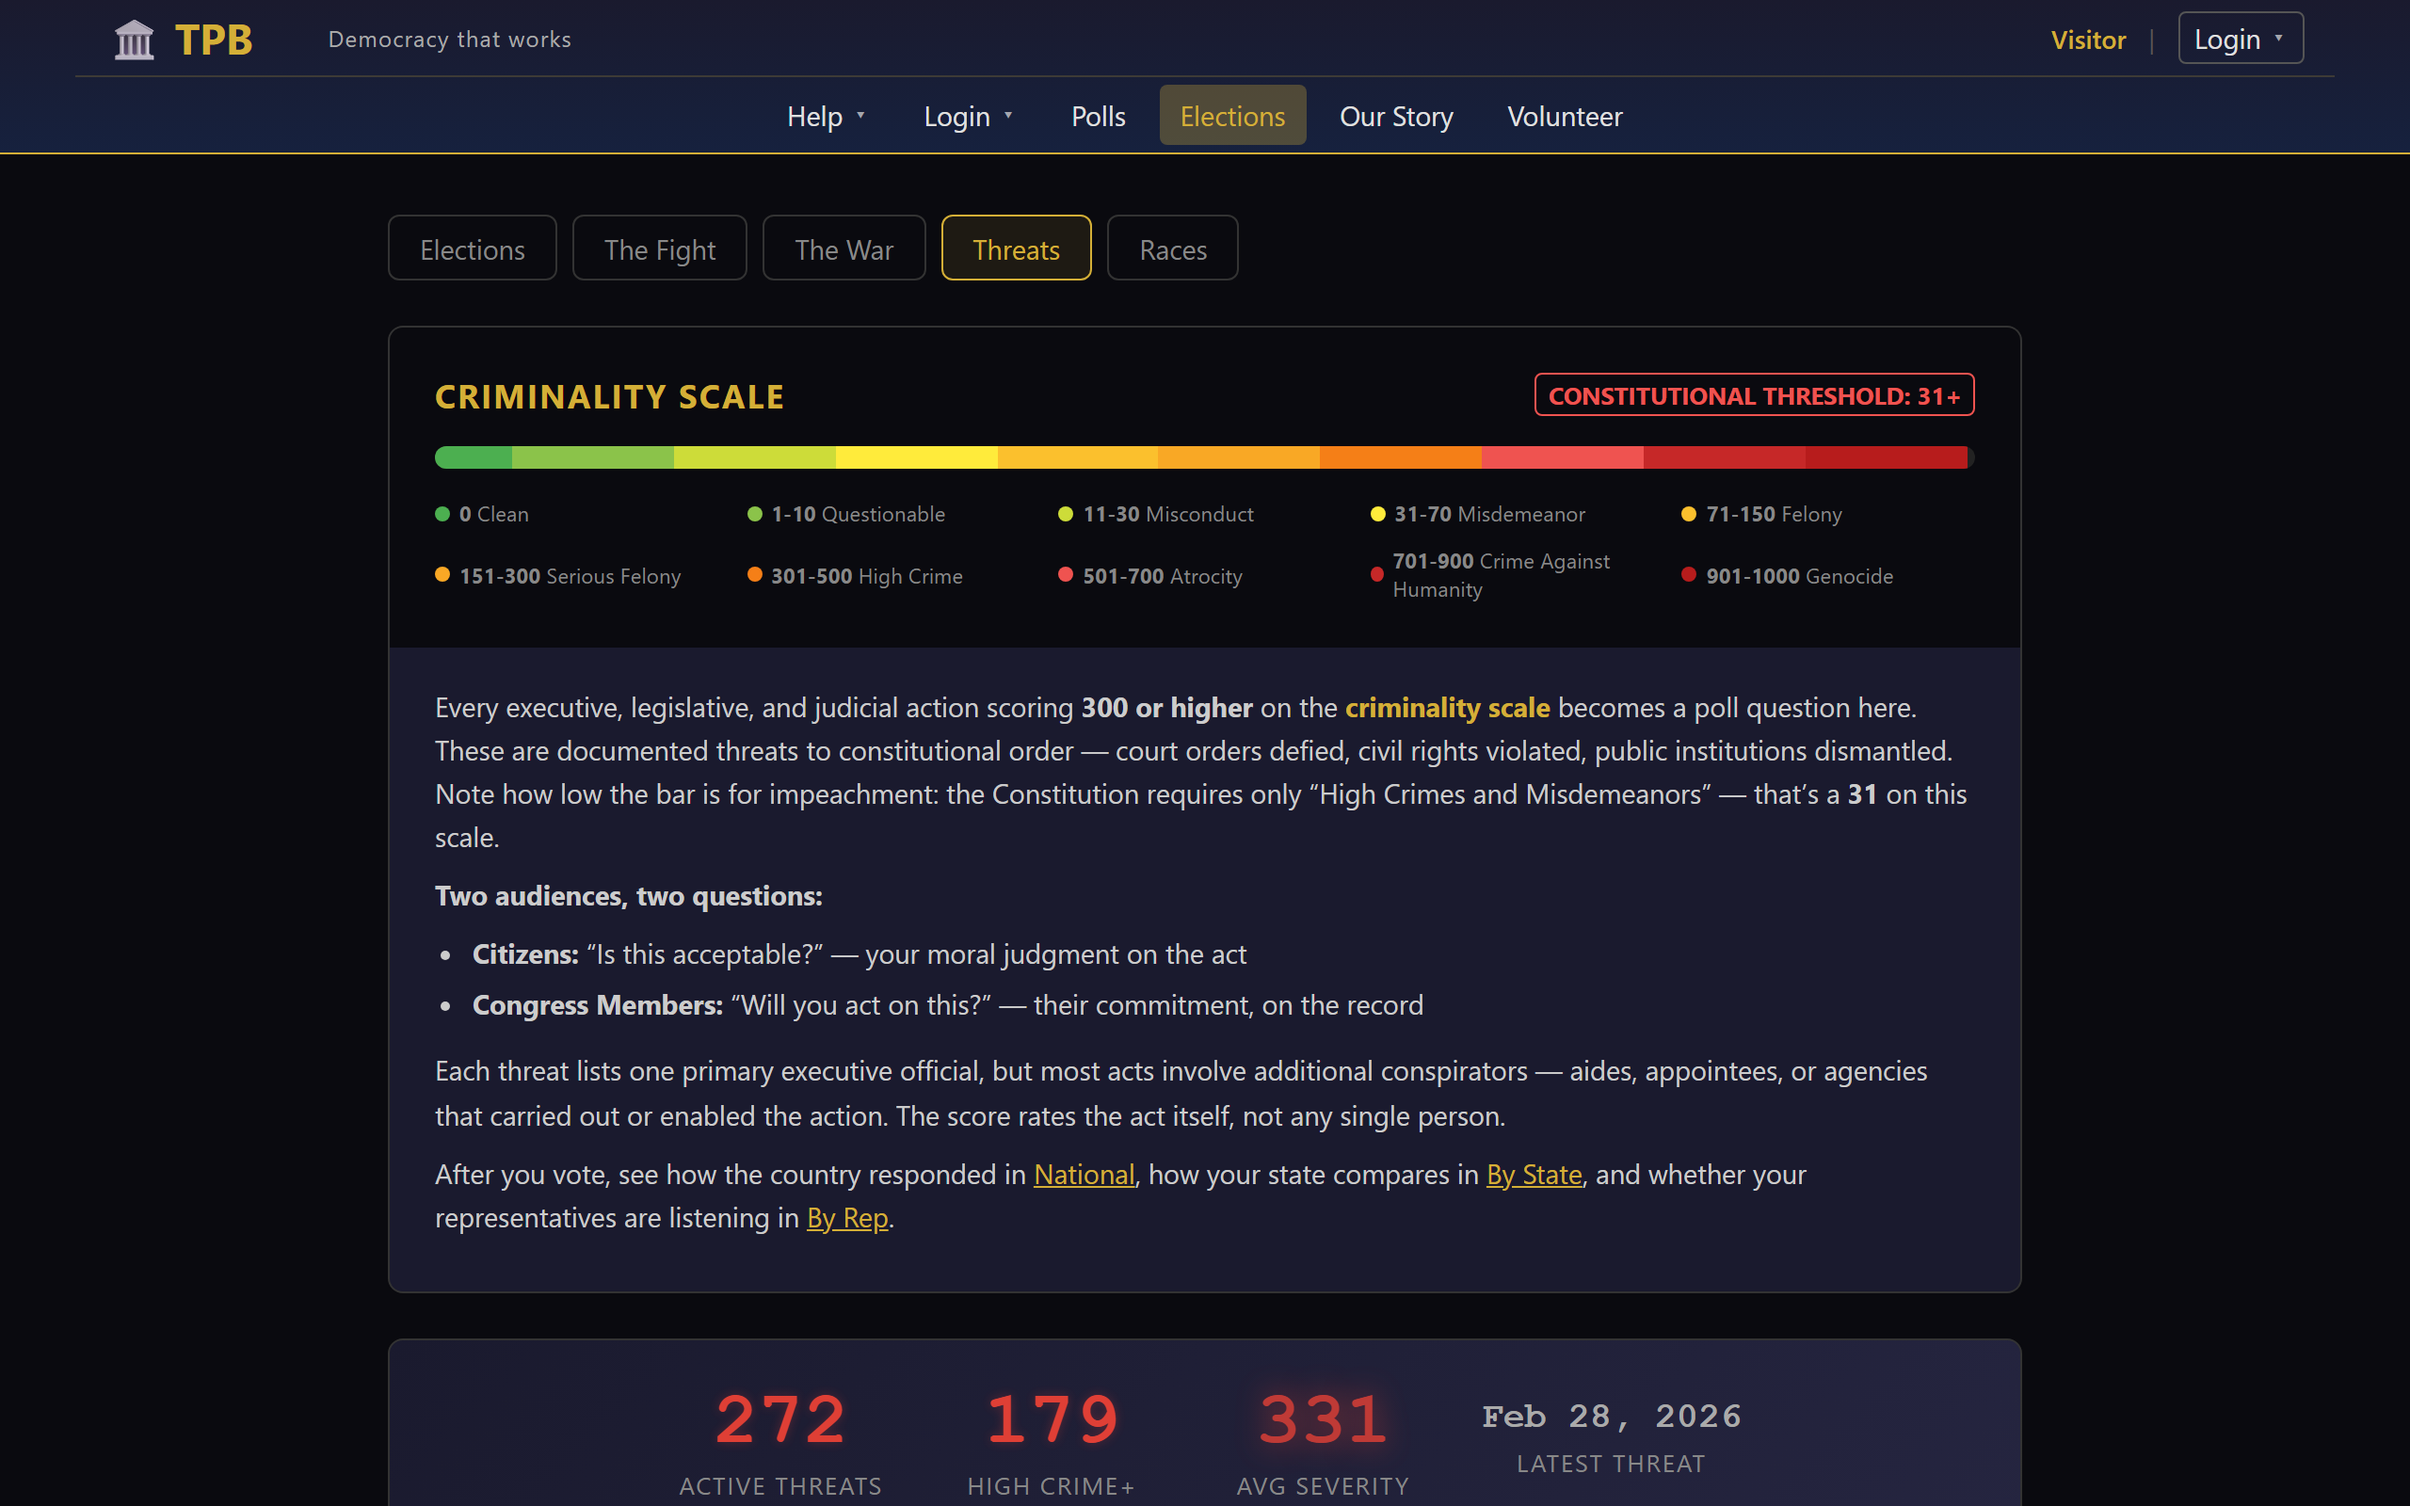
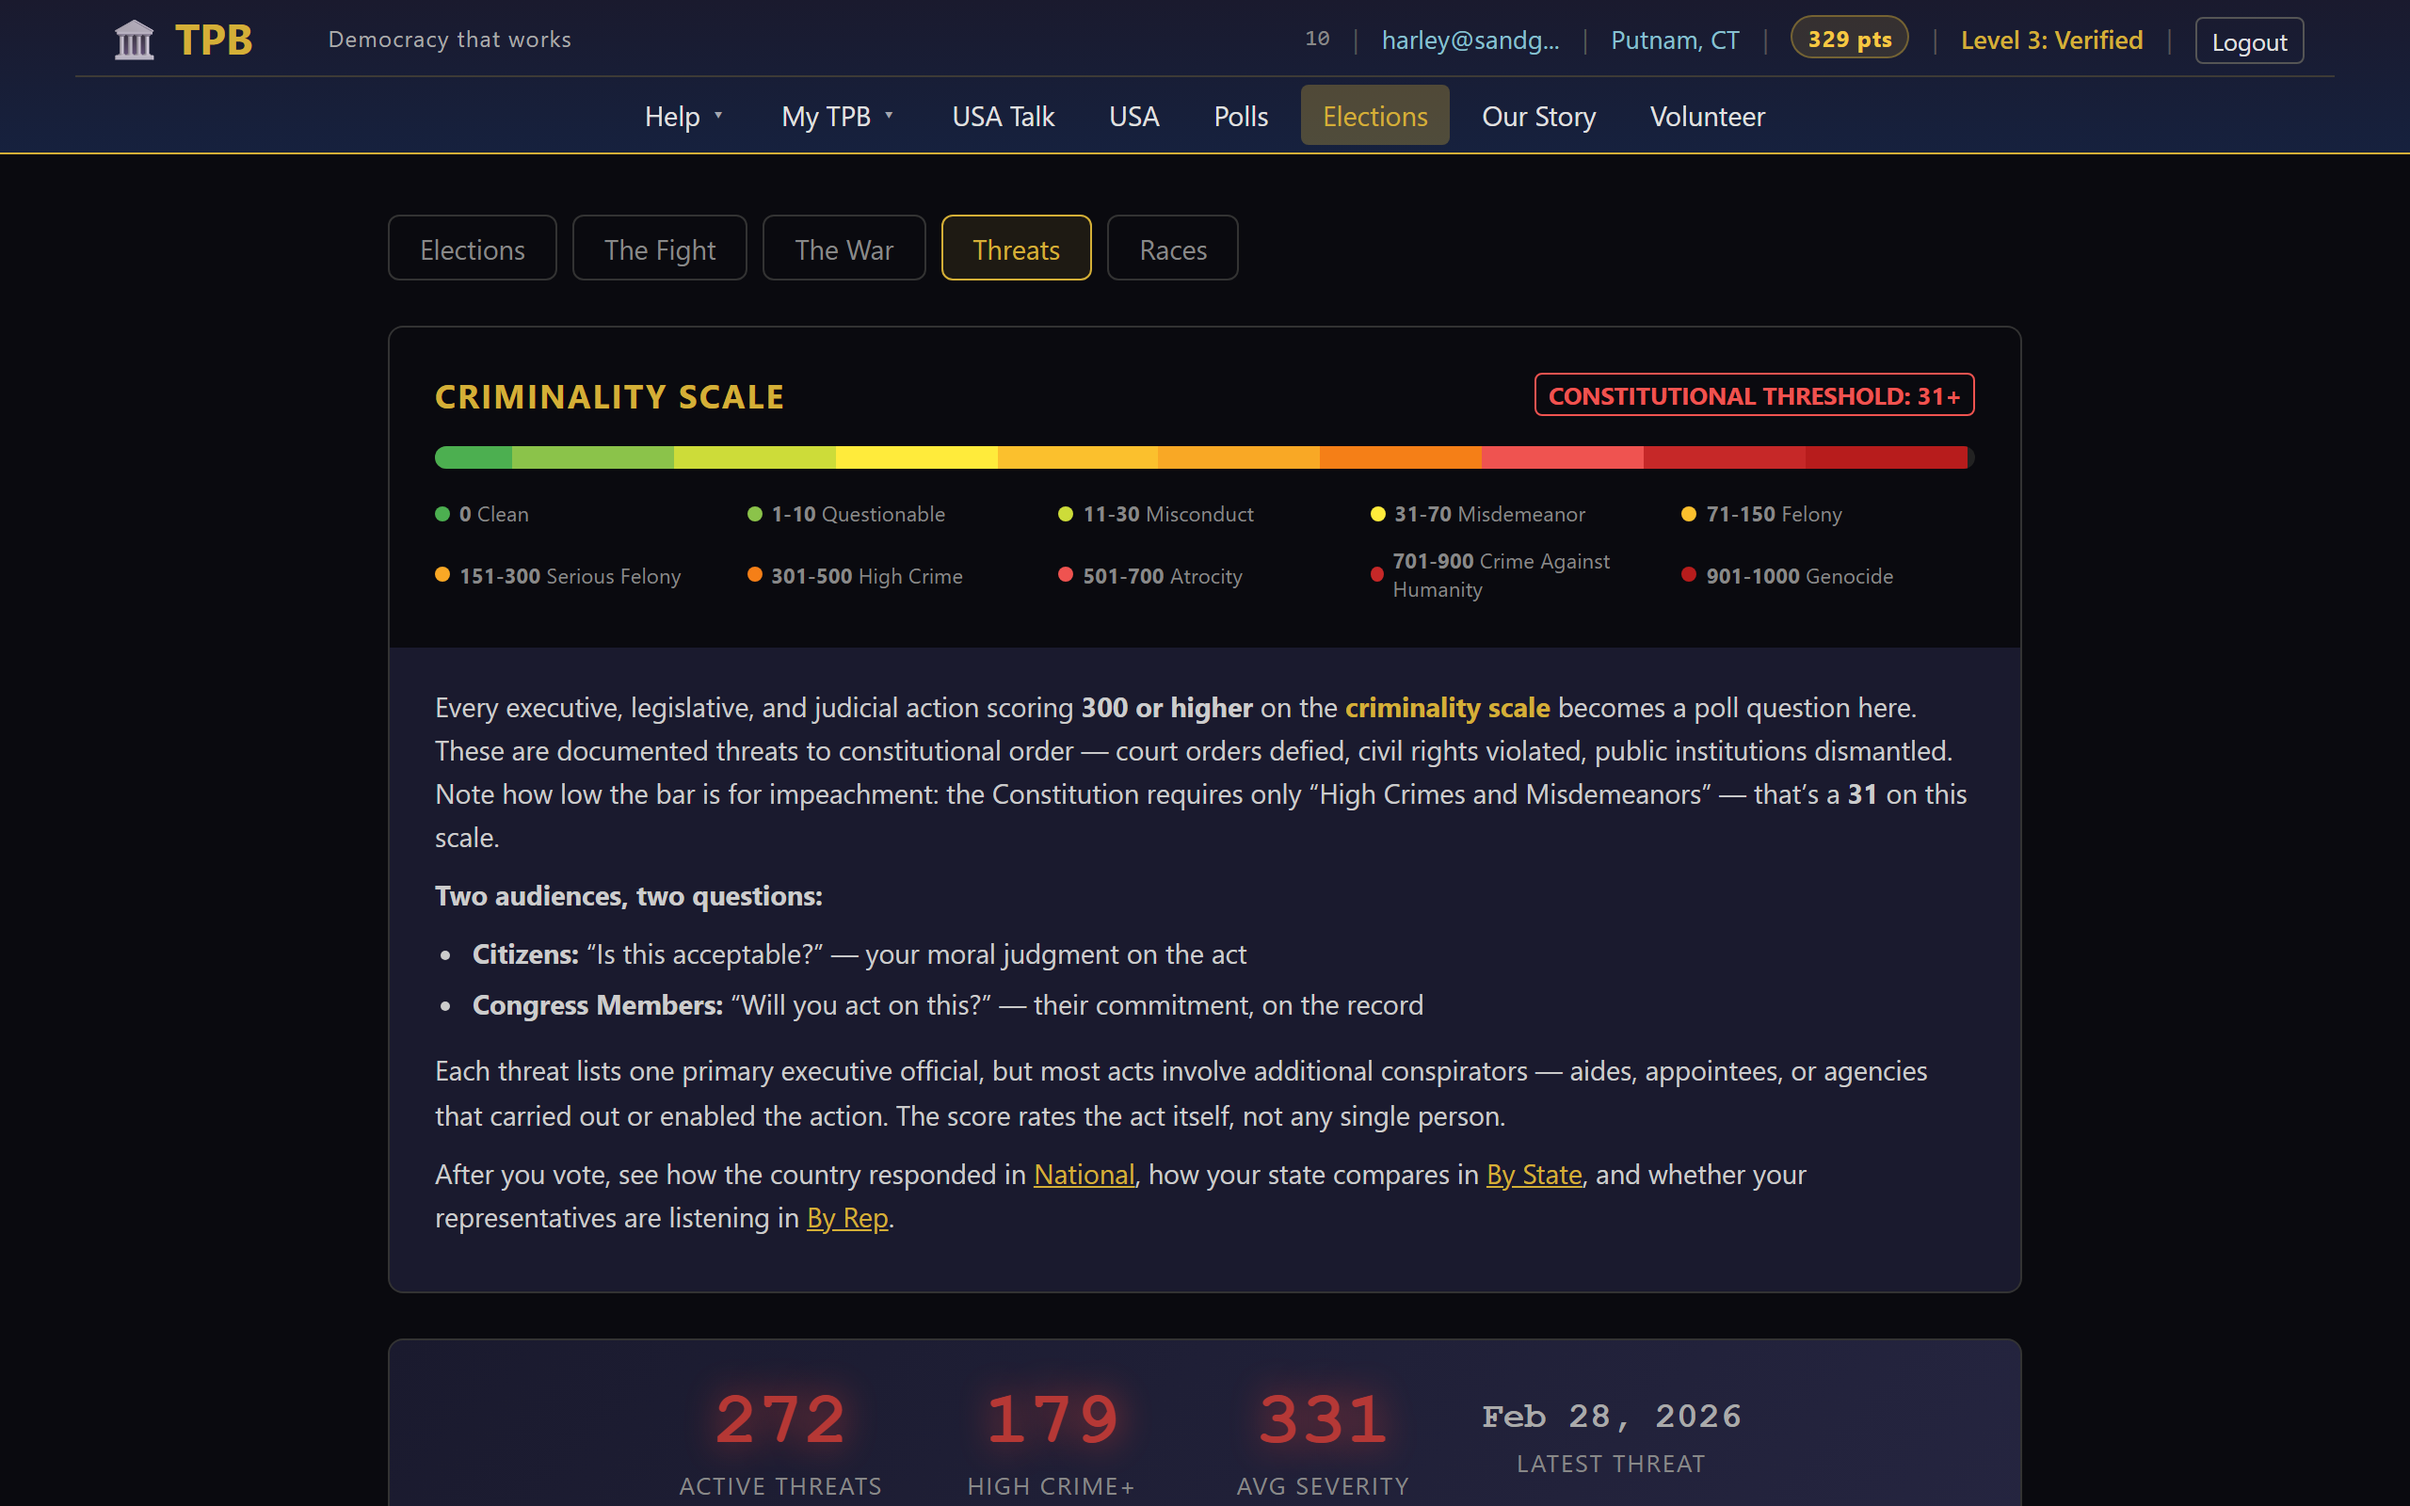
feat(help): add AUTH_USER_ID to doc generator for logged-in screenshots
All screenshots now captured as authenticated user — profile shows
trust journey, volunteer section, civic points; polls show vote buttons;
talk shows input area; workspace shows task board.

Usage: AUTH_USER_ID=10 SITE_URL=https://... npm run generate-docs

diff --git a/scripts/generate-user-guides.js b/scripts/generate-user-guides.js
@@ -14,6 +14,7 @@ const fs = require('fs');
 const path = require('path');
 
 const BASE_URL = process.env.SITE_URL || 'http://localhost';
+const AUTH_USER_ID = process.env.AUTH_USER_ID || '';  // set to log in as this user
 const SCREENSHOT_DIR = path.join(__dirname, '..', 'help', 'screenshots');
 const DATA_DIR = path.join(__dirname, '..', 'help', 'data');
 
@@ -546,6 +547,15 @@ async function generateGuides() {
         deviceScaleFactor: 2,  // retina-quality screenshots
         baseURL: BASE_URL
     });
+
+    // Set auth cookie so screenshots show logged-in views
+    if (AUTH_USER_ID) {
+        const domain = new URL(BASE_URL).hostname;
+        await context.addCookies([
+            { name: 'tpb_user_id', value: AUTH_USER_ID, domain: domain, path: '/' }
+        ]);
+        console.log(`Authenticated as user_id=${AUTH_USER_ID} on ${domain}`);
+    }
 
     for (const flow of flows) {
         console.log(`\nGenerating flow: ${flow.title}`);
